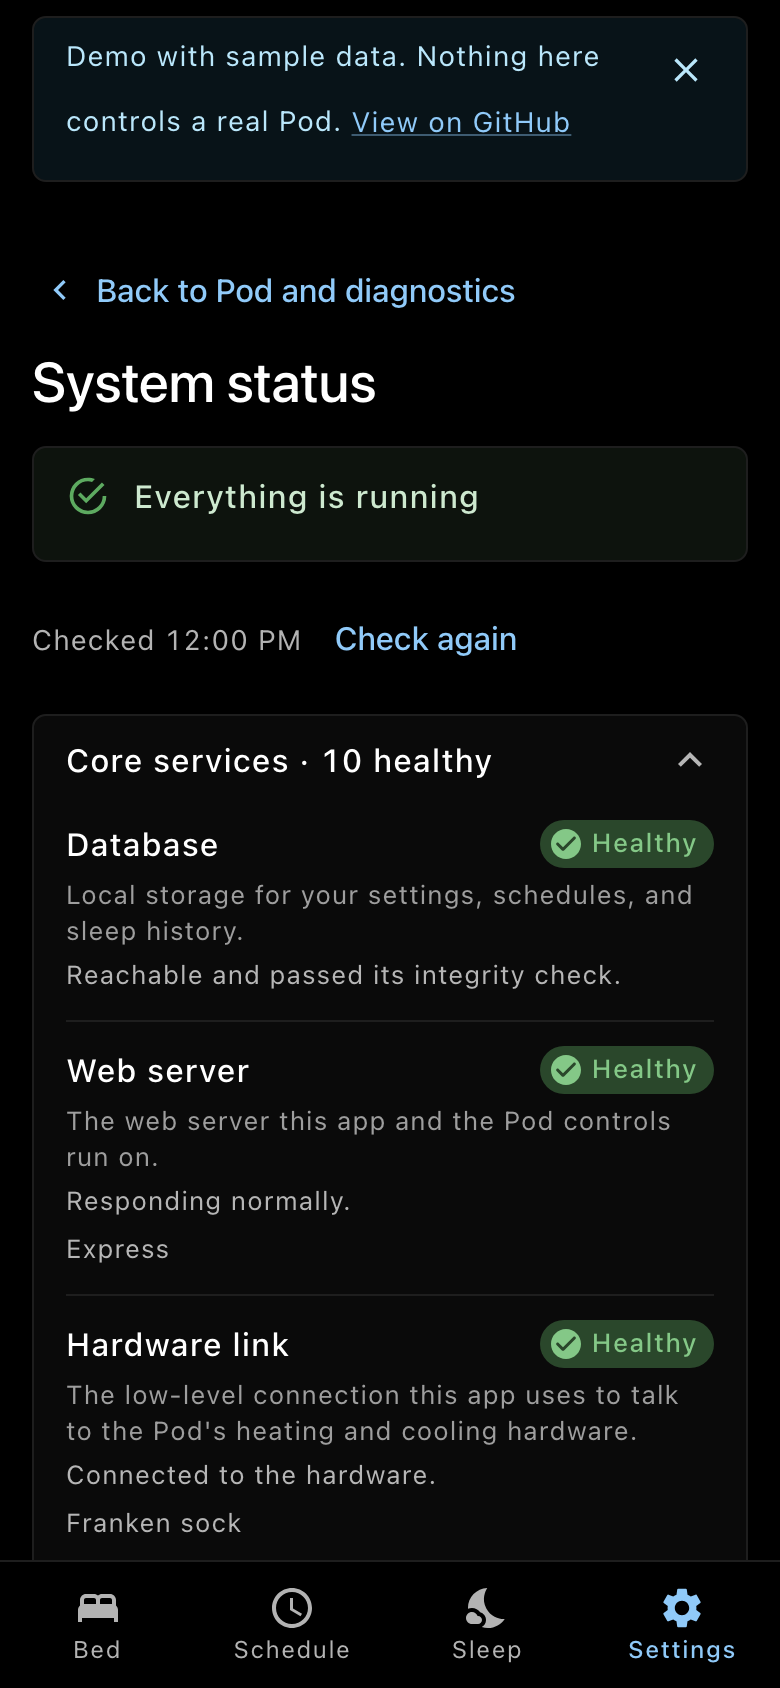
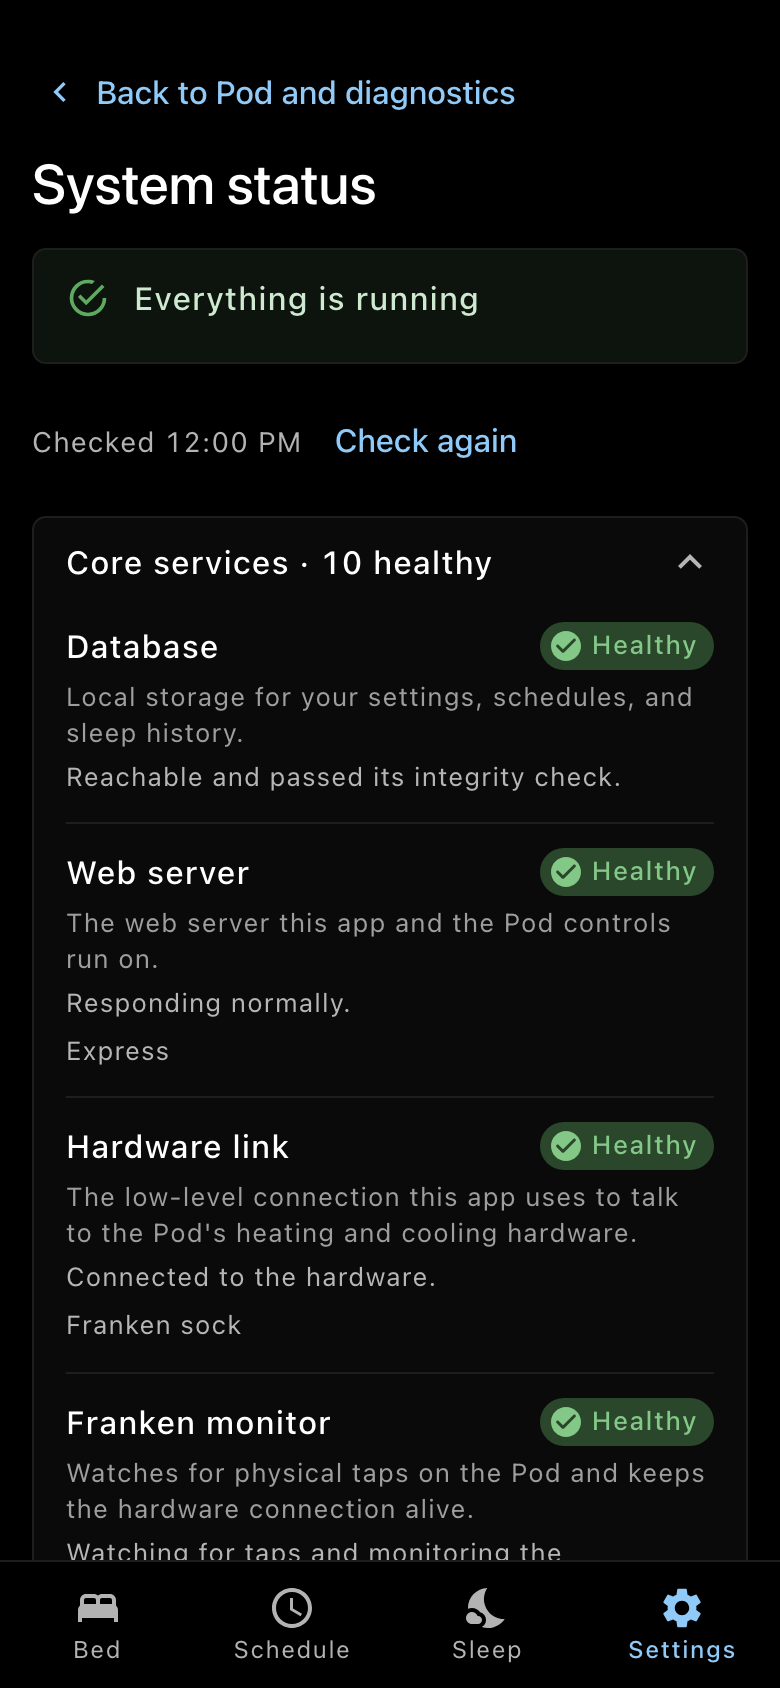
docs: refresh screenshots for the current interface
Show time in bed and the default weekly schedule so the images match the documented experience. Hide the demo banner in documentation captures.

diff --git a/server/src/rhythmsFileSafety.test.ts b/server/src/rhythmsFileSafety.test.ts
@@ -5,7 +5,9 @@ import { it } from 'node:test';
 const scripts = new URL('../../scripts/', import.meta.url);
 
 it('no script touches the Rhythms data file by name', () => {
-  const files = readdirSync(scripts, { recursive: true }).map(String).filter(name => /\.(sh|py|mjs)$/.test(name));
+  // The README screenshot script only drives a browser on the demo build.
+  const files = readdirSync(scripts, { recursive: true }).map(String)
+    .filter(name => /\.(sh|py|mjs)$/.test(name) && name !== 'readme-screenshots.mjs');
   for (const expected of ['update.sh', 'rollback_pod.sh', 'switch-to-upstream.sh', 'prepare-upstream.py']) {
     assert.ok(files.includes(expected), `missing ${expected}`);
   }
